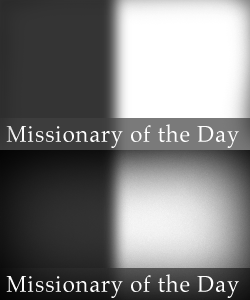
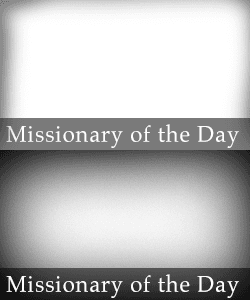
home page missionary of the day - use larger thumbnail
use larger thumbnail, remove image mask, fix rounded corners

diff --git a/style.css b/style.css
@@ -1265,22 +1265,19 @@ dl.gallery-item {
 
 .potd_thumbnail#motd_thumbnail {
 	display: block;
-	width: 150px;
+	width: 250px;
 	height: 150px;
 	position: absolute;
-	left: 100px;
+	left: 0;
 	z-index: 0;
-	-webkit-border-top-right-radius: 5px;
-	-webkit-border-bottom-right-radius: 5px;
-	-moz-border-radius-topright: 5px;
-	-moz-border-radius-bottomright: 5px;
-	border-top-right-radius: 5px;
-	border-bottom-right-radius: 5px;
+	-webkit-border-radius: 5px;
+	-moz-border-radius: 5px;
+	border-radius: 5px;
 }
 
 .home-button#motd,
 .home-button#motd span {
-	background-image: url(images/home-buttons/missionary-of-the-day.png);
+	background-image: url(images/home-buttons/missionary-of-the-day.png?v2);
 	position: relative;
 	z-index: 25;
 }
